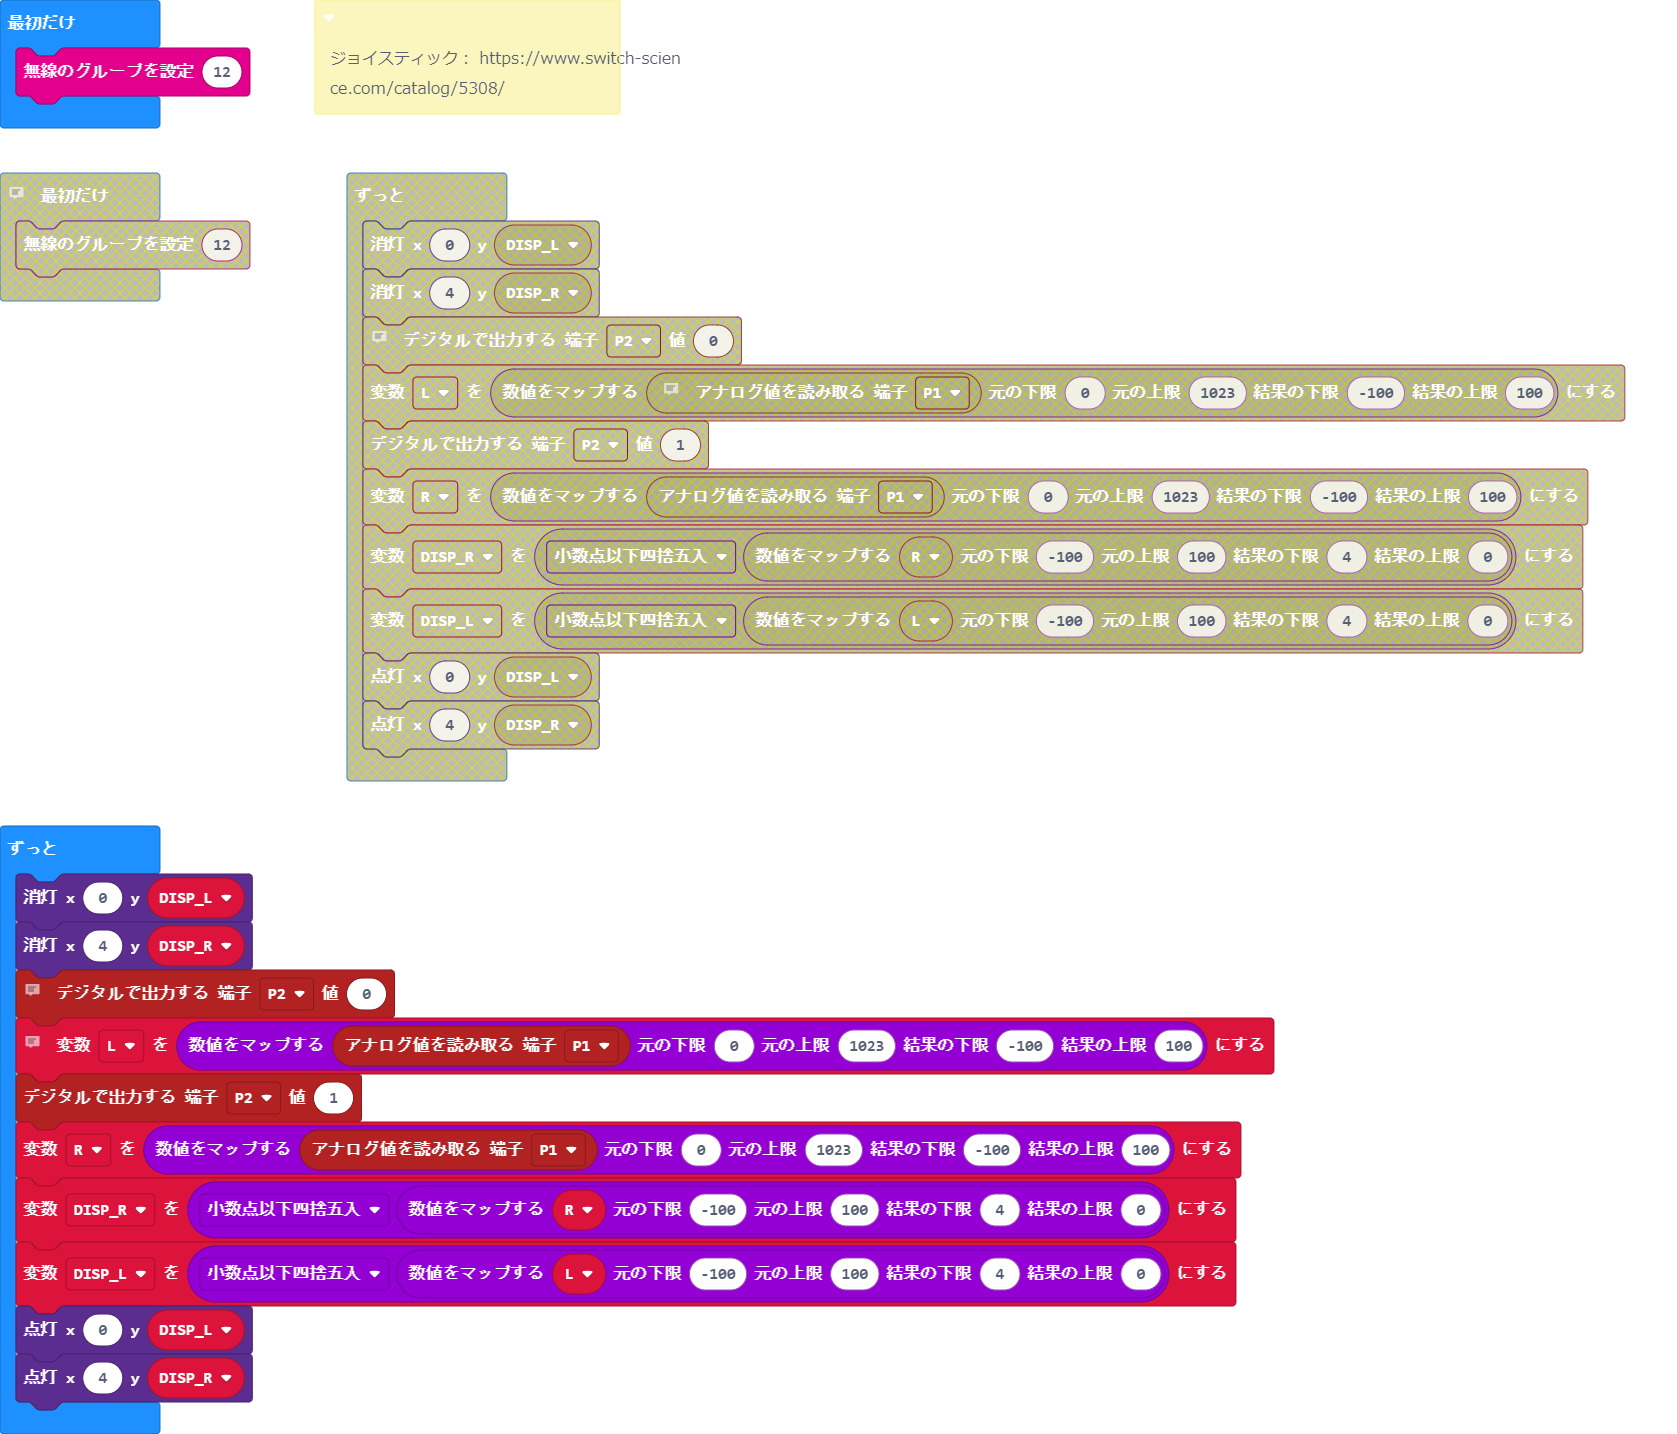
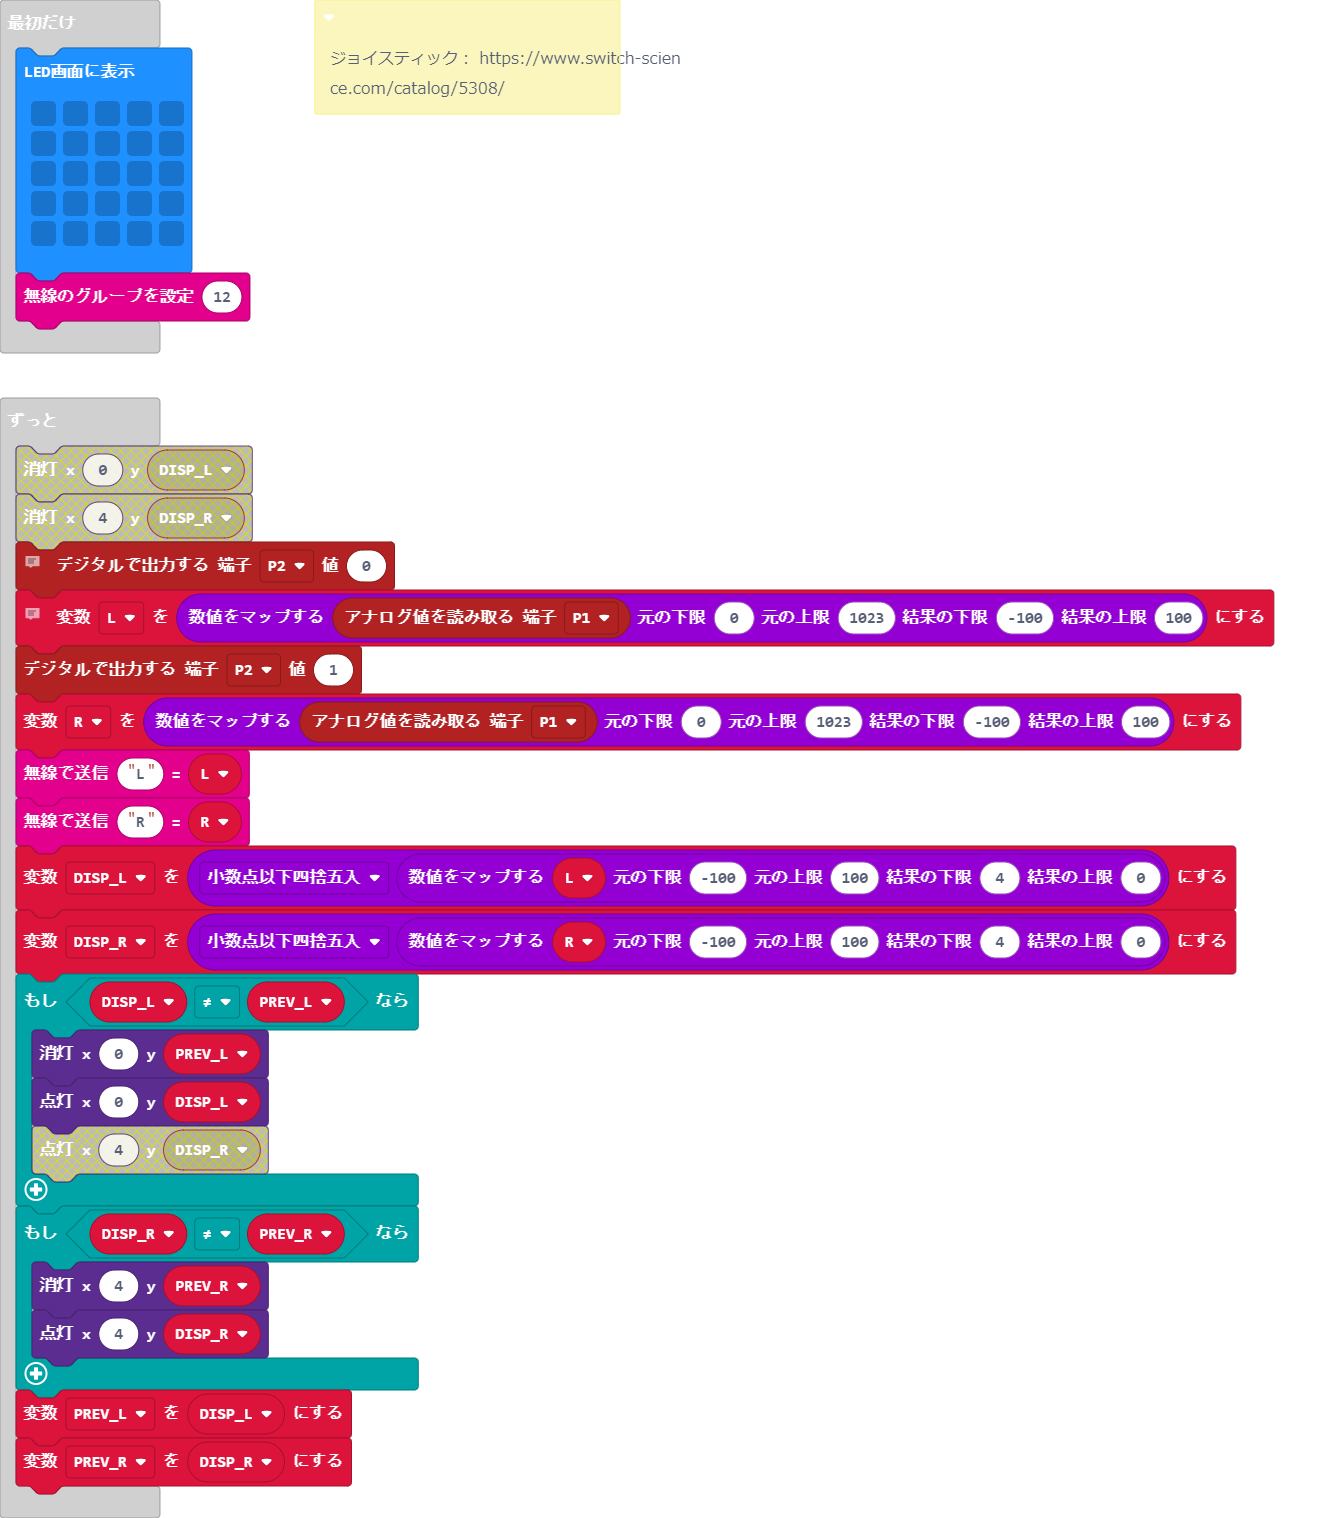
fix LED

diff --git a/main.ts b/main.ts
@@ -3,14 +3,21 @@
  * 
  * https://www.switch-science.com/catalog/5308/
  */
-let R = 0
-let L = 0
+let PREV_R = 0
+let PREV_L = 0
 let DISP_R = 0
 let DISP_L = 0
+let R = 0
+let L = 0
+basic.showLeds(`
+    . . . . .
+    . . . . .
+    . . . . .
+    . . . . .
+    . . . . .
+    `)
 radio.setGroup(12)
 basic.forever(function () {
-    led.unplot(0, DISP_L)
-    led.unplot(4, DISP_R)
     // P2:0 左ジョイスティック選択
     // P2:1 右ジョイスティック選択
     pins.digitalWritePin(DigitalPin.P2, 0)
@@ -19,8 +26,18 @@ basic.forever(function () {
     L = Math.map(pins.analogReadPin(AnalogPin.P1), 0, 1023, -100, 100)
     pins.digitalWritePin(DigitalPin.P2, 1)
     R = Math.map(pins.analogReadPin(AnalogPin.P1), 0, 1023, -100, 100)
-    DISP_R = Math.round(Math.map(R, -100, 100, 4, 0))
+    radio.sendValue("L", L)
+    radio.sendValue("R", R)
     DISP_L = Math.round(Math.map(L, -100, 100, 4, 0))
-    led.plot(0, DISP_L)
-    led.plot(4, DISP_R)
+    DISP_R = Math.round(Math.map(R, -100, 100, 4, 0))
+    if (DISP_L != PREV_L) {
+        led.unplot(0, PREV_L)
+        led.plot(0, DISP_L)
+    }
+    if (DISP_R != PREV_R) {
+        led.unplot(4, PREV_R)
+        led.plot(4, DISP_R)
+    }
+    PREV_L = DISP_L
+    PREV_R = DISP_R
 })
